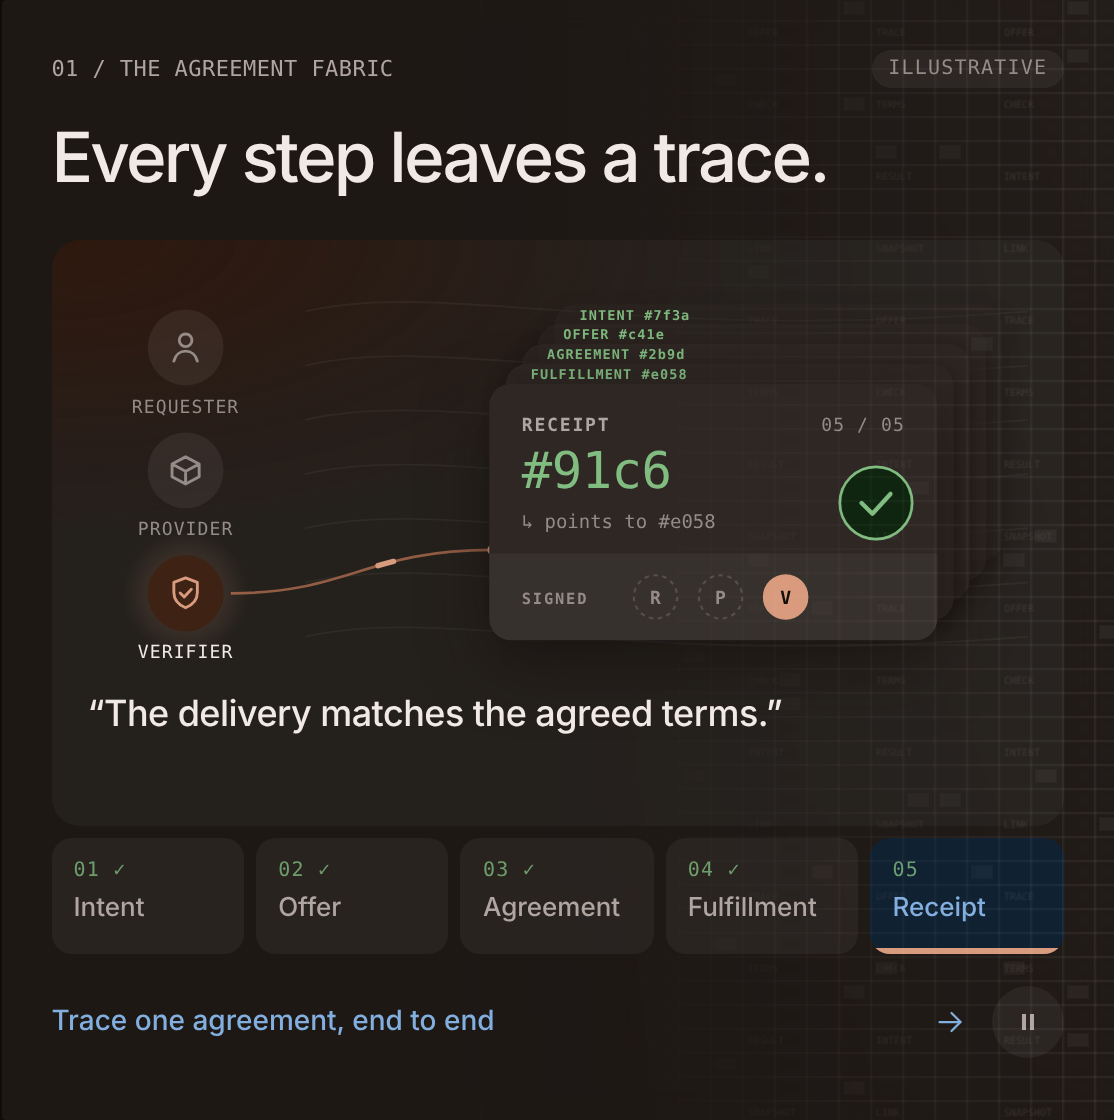
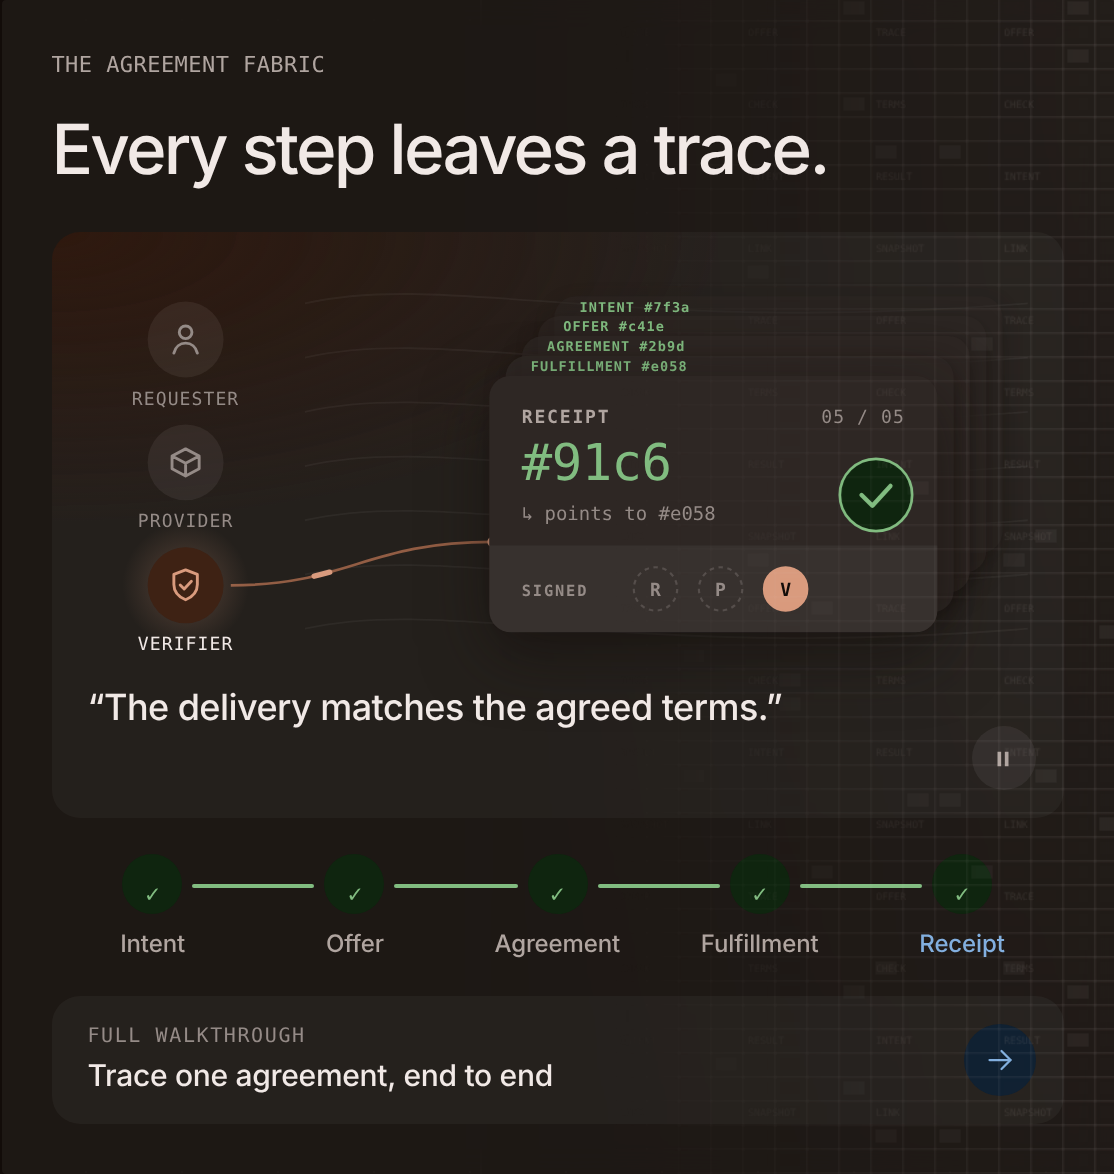
Home: step track and onward tile for the agreement fabric
Drops the section number and the Illustrative pill, turns the five step
tiles (whose names were cut off on phones) into nodes on one track, moves
play/pause into the scene tile, and makes the onward link an action tile.

Claude-Session: https://claude.ai/code/session_01JsiwkMB1W5KMpojX5vuTMZ

diff --git a/css/home-flow.css b/css/home-flow.css
@@ -5,16 +5,13 @@
    uses success. Records are step links, so they take reference on hover/focus. */
 
 #scene .home-lifecycle {border-color:transparent;}
-#scene .home-lifecycle .home-lifecycle-caption {display:flex;align-items:center;justify-content:space-between;gap:12px;}
-#scene .home-lifecycle .home-lifecycle-caption span {padding:2px 8px;border-radius:999px;background:hsl(var(--text-strong) / .06);
- font:500 10px/1.5 var(--mono-font,monospace);letter-spacing:.06em;text-transform:uppercase;color:hsl(var(--text-faint));}
-.flow {--flow-step:3.2s;display:grid;gap:6px;margin-top:20px;}
+.flow {--flow-step:3.2s;position:relative;display:grid;gap:14px;margin-top:20px;}
 
 /* Now: the illustrated step, then its quote ------------------------------ */
-.flow-now {display:grid;gap:12px;align-content:start;padding:14px 18px 18px;border-radius:14px;
+.flow-now {position:relative;display:grid;gap:12px;align-content:start;padding:14px 18px 18px;border-radius:14px;
  background:radial-gradient(120% 90% at 0% 0%,hsl(var(--primary-100)),transparent 55%),hsl(var(--text-strong) / .04);}
 .flow-scene {display:block;width:100%;height:auto;overflow:visible;}
-.flow-says {display:block;min-height:2.7em;font:500 18px/1.35 var(--font-sans,"Albert Sans",sans-serif);letter-spacing:-.015em;color:hsl(var(--text-strong));text-wrap:balance;}
+.flow-says {display:block;min-height:2.7em;padding-right:40px;font:500 18px/1.35 var(--font-sans,"Albert Sans",sans-serif);letter-spacing:-.015em;color:hsl(var(--text-strong));text-wrap:balance;}
 .flow.flow-run .flow-says {animation:flow-caption 420ms ease-out both;}
 @keyframes flow-caption {from{opacity:0;transform:translateY(3px);}to{opacity:1;transform:none;}}
 
@@ -95,38 +92,56 @@
 .flow.flow-run[data-complete="true"] .flow-seal {animation:flow-stamp 500ms cubic-bezier(.34,1.56,.64,1) 900ms both;}
 .flow[data-complete="true"] .flow-card-hash {fill:hsl(var(--success));}
 
-/* Ledger: five record tiles, which are also the step links. A future record
-   is an empty slot; the current one fills as the step plays; a written one
-   keeps its hash. */
-#scene .flow-ledger {display:grid;grid-template-columns:repeat(5,minmax(0,1fr));gap:6px;margin:0;padding:0;list-style:none;}
-#scene .flow-ledger li {min-width:0;text-align:left;}
-#scene .flow-ledger .flow-record {position:relative;display:grid;gap:2px;min-height:58px;margin:0;padding:10px 11px 12px;border:0;border-radius:10px;overflow:hidden;
- background:hsl(var(--text-strong) / .025);text-decoration:none;color:hsl(var(--text-faint)) !important;transition:background 240ms,color 240ms;}
-#scene .flow-ledger .flow-record-num {font:500 10px/1.3 var(--mono-font,ui-monospace,monospace);letter-spacing:.06em;opacity:.8;}
-#scene .flow-ledger .flow-record-name {overflow:hidden;font:500 13px/1.3 var(--font-sans,"Albert Sans",sans-serif);text-overflow:ellipsis;white-space:nowrap;}
-#scene .flow-ledger .flow-record-bar {position:absolute;left:0;right:0;bottom:0;height:3px;background:transparent;}
-#scene .flow-ledger .flow-record-bar::after {content:"";position:absolute;inset:0;background:hsl(var(--primary));transform:scaleX(0);transform-origin:left;}
-#scene .flow-ledger .flow-record[data-done] .flow-record-num::after {content:" ✓";}
-#scene .flow[data-complete="true"] .flow-ledger .flow-record .flow-record-num {color:hsl(var(--success));}
-#scene .flow-ledger .flow-record[data-done] {background:hsl(var(--text-strong) / .055);color:hsl(var(--text-muted)) !important;}
-#scene .flow-ledger .flow-record[data-current] {background:hsl(var(--text-strong) / .09);color:hsl(var(--text-strong)) !important;}
-#scene .flow-ledger .flow-record[data-current] .flow-record-bar::after {transform:none;}
-#scene .flow[data-playing="true"].flow-run .flow-record[data-current] .flow-record-bar::after {animation:flow-progress var(--flow-step) linear both;}
-#scene .flow-ledger .flow-record:is(:hover,:focus-visible) {background:hsl(var(--reference-100));color:hsl(var(--reference)) !important;}
+/* Steps: five nodes on one track, the step links that drive the scene.
+   The segment into a step fills once it is reached; while playing, the
+   segment out of the current step fills over the step's duration. */
+#scene .flow-ledger {display:grid;grid-template-columns:repeat(5,minmax(0,1fr));gap:0;margin:0;padding:0 0 2px;list-style:none;}
+#scene .flow-ledger li {position:relative;min-width:0;}
+#scene .flow-ledger li:not(:first-child)::before,
+#scene .flow-ledger li:not(:first-child)::after {content:"";position:absolute;top:19px;left:calc(-50% + 20px);right:calc(50% + 20px);height:2px;border-radius:2px;background:hsl(var(--text-strong) / .08);}
+#scene .flow-ledger li:not(:first-child)::after {background:hsl(var(--primary-400));transform:scaleX(0);transform-origin:left;transition:transform 300ms;}
+#scene .flow-ledger li:has(> [data-done],> [data-current])::after {transform:none;}
+#scene .flow[data-playing="true"]:not([data-held]).flow-run .flow-ledger li:has(> [data-current]) + li::after {animation:flow-progress var(--flow-step) linear both;}
+#scene .flow-ledger .flow-record {display:grid;justify-items:center;gap:8px;min-height:0;margin:0;padding:4px 0 2px;border:0;border-radius:10px;background:none;
+ text-align:center;text-decoration:none;color:hsl(var(--text-faint)) !important;transition:color 200ms;}
+#scene .flow-ledger .flow-record-num {display:grid;place-items:center;width:30px;height:30px;border-radius:50%;background:hsl(var(--text-strong) / .06);
+ font:600 10px/1 var(--mono-font,ui-monospace,monospace);letter-spacing:.02em;transition:background 240ms,color 240ms,box-shadow 240ms;}
+#scene .flow-ledger .flow-record-name {max-width:100%;font:500 12px/1.2 var(--font-sans,"Albert Sans",sans-serif);letter-spacing:-.005em;white-space:nowrap;}
+#scene .flow-ledger .flow-record[data-done] {color:hsl(var(--text-muted)) !important;}
+#scene .flow-ledger .flow-record[data-done] .flow-record-num {font-size:0;background:hsl(var(--primary-200));color:hsl(var(--primary));}
+#scene .flow-ledger .flow-record[data-done] .flow-record-num::after {content:"✓";font-size:12px;}
+#scene .flow-ledger .flow-record[data-current] {color:hsl(var(--text-strong)) !important;}
+#scene .flow-ledger .flow-record[data-current] .flow-record-num {background:hsl(var(--primary));color:hsl(var(--text-inverse));box-shadow:0 0 0 5px hsl(var(--primary-200));}
+#scene .flow[data-complete="true"] .flow-ledger li::after {background:hsl(var(--success));}
+#scene .flow[data-complete="true"] .flow-ledger .flow-record .flow-record-num {background:hsl(var(--success-100));color:hsl(var(--success));box-shadow:none;}
+#scene .flow[data-complete="true"] .flow-ledger .flow-record[data-current] .flow-record-num {font-size:0;}
+#scene .flow[data-complete="true"] .flow-ledger .flow-record[data-current] .flow-record-num::after {content:"✓";font-size:12px;}
+#scene .flow-ledger .flow-record:is(:hover,:focus-visible) {color:hsl(var(--reference)) !important;}
+#scene .flow-ledger .flow-record:is(:hover,:focus-visible) .flow-record-num {box-shadow:0 0 0 5px hsl(var(--reference-200));}
 #scene .flow-ledger .flow-record:focus-visible {outline:2px solid hsl(var(--reference));outline-offset:2px;}
 @keyframes flow-progress {from{transform:scaleX(0);}to{transform:scaleX(1);}}
 
-/* Foot: the one way onward, and the play control beside it. */
-#scene .home-lifecycle-foot {display:flex;align-items:center;gap:12px;margin-top:10px;}
-#scene .home-lifecycle .home-lifecycle-foot .home-lifecycle-all {flex:1;min-width:0;min-height:48px;margin:0;border:0;}
-#scene .flow-toggle {flex:none;display:grid;place-items:center;width:36px;height:36px;min-height:0;padding:0;border:0;border-radius:50%;
- background:hsl(var(--text-strong) / .06);color:hsl(var(--text-muted));cursor:pointer;transition:background 200ms,color 200ms;}
-#scene .flow-toggle svg {grid-area:1/1;width:12px;height:12px;fill:currentColor;}
+/* Play control: a quiet round button in the scene tile's bottom-right corner. */
+#scene .flow-toggle {position:absolute;right:14px;bottom:14px;z-index:1;display:grid;place-items:center;width:32px;height:32px;min-height:0;padding:0;border:0;border-radius:50%;
+ background:hsl(var(--text-strong) / .07);color:hsl(var(--text-muted));cursor:pointer;transition:background 200ms,color 200ms;}
+#scene .flow-toggle svg {grid-area:1/1;width:11px;height:11px;fill:currentColor;}
 #scene .flow-toggle svg + svg,
-#scene .flow[data-playing="false"] + .home-lifecycle-foot .flow-toggle svg:first-child {display:none;}
-#scene .flow[data-playing="false"] + .home-lifecycle-foot .flow-toggle svg + svg {display:block;}
+#scene .flow[data-playing="false"] .flow-toggle svg:first-child {display:none;}
+#scene .flow[data-playing="false"] .flow-toggle svg + svg {display:block;}
 #scene .flow-toggle:is(:hover,:focus-visible) {background:hsl(var(--reference-200));color:hsl(var(--reference));}
 #scene .flow-toggle:focus-visible {outline:2px solid hsl(var(--reference));outline-offset:2px;}
+
+/* Onward: one action tile, kicker over label, arrow in a disc. */
+#scene .home-lifecycle .home-lifecycle-all {display:flex;align-items:center;gap:14px;min-height:0;margin:14px 0 0;padding:14px 14px 14px 18px;border:0;border-radius:14px;
+ background:hsl(var(--text-strong) / .045);text-decoration:none;color:hsl(var(--text-strong));transition:background 200ms;}
+#scene .home-lifecycle-all-copy {display:grid;gap:3px;min-width:0;}
+#scene .home-lifecycle-all-copy small {font:500 10px/1.3 var(--mono-font,ui-monospace,monospace);letter-spacing:.08em;text-transform:uppercase;color:hsl(var(--text-faint));}
+#scene .home-lifecycle-all-copy span {font:500 15px/1.3 var(--font-sans,"Albert Sans",sans-serif);letter-spacing:-.01em;color:hsl(var(--text-strong));}
+#scene .home-lifecycle .home-lifecycle-all .native-icon {flex:0 0 36px;width:36px;height:36px;box-sizing:border-box;margin-left:auto;padding:9px;border-radius:50%;
+ background:hsl(var(--reference-100));color:hsl(var(--reference)) !important;}
+#scene .home-lifecycle .home-lifecycle-all:is(:hover,:focus-visible) {background:hsl(var(--reference-100));}
+#scene .home-lifecycle .home-lifecycle-all:is(:hover,:focus-visible) .home-lifecycle-all-copy span {color:hsl(var(--reference));}
+#scene .home-lifecycle .home-lifecycle-all:is(:hover,:focus-visible) .native-icon {background:hsl(var(--reference-200));}
 
 @media(prefers-reduced-motion:reduce){
  .flow *,.flow.flow-run * {animation:none !important;transition:none !important;}
@@ -167,9 +182,15 @@
  #scene .home-status-link {grid-column:1/-1;}
 }
 @media(max-width:480px){
- #scene .flow-ledger {gap:4px;}
- #scene .flow-ledger .flow-record {min-height:54px;padding:8px 7px 10px;border-radius:8px;}
- #scene .flow-ledger .flow-record-name {font-size:11px;}
+ #scene .flow-ledger .flow-record-name {font-size:10.5px;letter-spacing:-.01em;}
+ #scene .flow-ledger .flow-record-num {width:28px;height:28px;}
+ #scene .flow-ledger li:not(:first-child)::before,
+ #scene .flow-ledger li:not(:first-child)::after {top:18px;left:calc(-50% + 19px);right:calc(50% + 19px);}
+ #scene .home-lifecycle .home-lifecycle-all {padding:12px 12px 12px 16px;}
+ #scene .home-lifecycle-all-copy span {font-size:14px;}
+}
+@media(max-width:380px){
+ #scene .home-lifecycle-all-copy span {font-size:13px;}
   .flow-now {padding:10px 12px 14px;}
 }
 
@@ -188,9 +209,8 @@
  .flow {margin-top:14px;}
  .flow-now {gap:8px;padding:10px 16px 14px;}
  .flow-says {font-size:16px;}
- #scene .flow-ledger .flow-record {min-height:52px;padding:8px 10px 10px;}
- #scene .home-lifecycle-foot {margin-top:4px;}
- #scene .home-lifecycle .home-lifecycle-foot .home-lifecycle-all {min-height:40px;}
+ .flow {gap:10px;}
+ #scene .home-lifecycle .home-lifecycle-all {margin-top:10px;padding:10px 12px 10px 16px;}
 }
 @media(max-width:900px){
  #scene .hero-alive[data-page="zero"] .ark-layer-zero {grid-template-rows:max-content max-content max-content;}

diff --git a/js/pages/home-flow.js b/js/pages/home-flow.js
@@ -167,10 +167,11 @@
     // Now: an illustration of the step (who signs which record, stacked on
     // the trail so far), then what they say.
     var now = el('div', 'flow-now');
-    now.setAttribute('aria-hidden', 'true');
     var scene = drawScene();
+    scene.svg.setAttribute('aria-hidden', 'true');
     now.appendChild(scene.svg);
     var says = el('strong', 'flow-says');
+    says.setAttribute('aria-hidden', 'true');
     now.appendChild(says);
     root.appendChild(now);
 
@@ -182,8 +183,6 @@
       link.href = hrefFor(s.id); link.dataset.sceneLink = 'lifecycle/' + s.id;
       link.appendChild(el('span', 'flow-record-num', String(i + 1).padStart(2, '0')));
       link.appendChild(el('span', 'flow-record-name', s.title));
-      var bar = el('span', 'flow-record-bar'); bar.setAttribute('aria-hidden', 'true');
-      link.appendChild(bar);
       link.setAttribute('aria-label', s.title + ': ' + STEPS[i].who + ' — ' + STEPS[i].says + ' Records ' + STEPS[i].records + ' #' + STEPS[i].hash + ', ' + backRef(i) + '. Illustrative example. Open this step.');
       item.appendChild(link); rail.appendChild(item);
       return link;
@@ -194,7 +193,8 @@
     toggle.type = 'button';
     toggle.appendChild(icon('M3 2h2v8H3zM7 2h2v8H7z'));
     toggle.appendChild(icon('M3 1.5v9l7.5-4.5z'));
-    root.appendChild(toggle);
+    // Sits in the scene tile's bottom-right corner, beside the quote.
+    now.appendChild(toggle);
 
     var reduce = typeof matchMedia === 'function' ? matchMedia('(prefers-reduced-motion: reduce)') : { matches: false };
     var current = 0, held = -1, userPaused = false, timer = 0, disposed = false;
@@ -232,8 +232,8 @@
         schedule();
       }, last ? RESTART_MS : STEP_MS);
     }
-    function hold(i) { held = i; show(i, i === STEPS.length - 1); clearTimeout(timer); timer = 0; }
-    function release() { if (held < 0) return; current = held; held = -1; schedule(); }
+    function hold(i) { held = i; root.dataset.held = 'true'; show(i, i === STEPS.length - 1); clearTimeout(timer); timer = 0; }
+    function release() { if (held < 0) return; current = held; held = -1; delete root.dataset.held; schedule(); }
 
     links.forEach(function (link, i) {
       link.addEventListener('pointerenter', function () { hold(i); });
@@ -254,7 +254,6 @@
 
     return {
       element: root,
-      toggle: toggle,
       restore: schedule,
       dispose: function () {
         disposed = true; clearTimeout(timer);

diff --git a/js/pages/home.js b/js/pages/home.js
@@ -62,18 +62,20 @@ ArkUI.pageModules.zero = {
     lifecycle.className = 'home-lifecycle';
     lifecycle.setAttribute('aria-label', 'The agreement lifecycle');
     var caption = document.createElement('p'); caption.className = 'home-lifecycle-caption';
-    caption.textContent = '01 / The agreement fabric';
-    var illustrative = document.createElement('span'); illustrative.textContent = 'Illustrative';
-    caption.appendChild(illustrative); lifecycle.appendChild(caption);
+    caption.textContent = 'The agreement fabric'; lifecycle.appendChild(caption);
     var title = document.createElement('strong'); title.className = 'home-cycle-title';
     title.textContent = 'Every step leaves a trace.'; lifecycle.appendChild(title);
     var flow=ArkUI.buildAgreementFlow({stages:ArkUI.lifecycleStages,hrefFor:function(id){return pageHref('lifecycle/'+id);}});
     lifecycle.appendChild(flow.element);
+    // One onward action, styled as a tile: what it is, then where it goes.
     var open = document.createElement('a'); open.className = 'home-lifecycle-all';
     open.href = pageHref('lifecycle'); open.dataset.sceneLink = 'lifecycle';open.dataset.icon='arrow-right';
-    open.textContent = 'Trace one agreement, end to end →';
-    var foot = document.createElement('div'); foot.className = 'home-lifecycle-foot';
-    foot.appendChild(open); if (flow.toggle) foot.appendChild(flow.toggle); lifecycle.appendChild(foot);
+    open.setAttribute('aria-label', 'Trace one agreement, end to end');
+    var openCopy = document.createElement('span'); openCopy.className = 'home-lifecycle-all-copy';
+    var openKicker = document.createElement('small'); openKicker.textContent = 'Full walkthrough';
+    var openLabel = document.createElement('span'); openLabel.textContent = 'Trace one agreement, end to end';
+    openCopy.appendChild(openKicker); openCopy.appendChild(openLabel); open.appendChild(openCopy);
+    lifecycle.appendChild(open);
     el.appendChild(lifecycle);
 
     // Measured numbers, shared with /stats (js/content/stats-highlights.js).

diff --git a/index.html b/index.html
@@ -52,7 +52,7 @@
 <link rel="stylesheet" href="css/story-diagrams.css?v=20261006-system1">
 <link rel="stylesheet" href="css/color-system.css?v=20261006-system1" />
 <link rel="stylesheet" href="css/brand-identity.css?v=20261006-system1" />
-<link rel="stylesheet" href="css/home-flow.css?v=20261007-fabric2" />
+<link rel="stylesheet" href="css/home-flow.css?v=20261007-fabric3" />
 <link rel="stylesheet" href="css/bundle-deployer.css?v=20261006-system1">
 <link rel="stylesheet" href="css/how-overview.css?v=20261006-system1">
 <link rel="stylesheet" href="css/explorer-observatory.css?v=20261006-system1">
